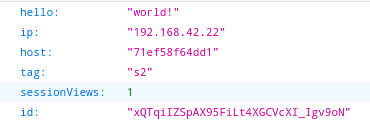
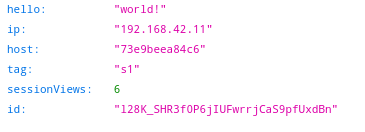
update task 3

diff --git a/Report.md b/Report.md
@@ -80,8 +80,6 @@ The correct behavior would be that the load balancer always sends the request **
 
    > Note: If the `ServerID` cookie isn't present in the request made, the proxy won't know where to send the request and return to a `Round Robin` behaviour (i.e. send the request to which ever server is available).
 
-   
-
    | First request               | Second request               |
    | --------------------------- | ---------------------------- |
    | ![](doc/task2_firstreq.png) | ![](doc/task2_secondreq.png) |
@@ -112,11 +110,11 @@ The correct behavior would be that the load balancer always sends the request **
 
    New Browser:
 
-   The first tests were made with firefox. if we do the same test with google chrome we can see that we are in the first case with the same exchange. 
+   Cookies are stored in the browser, so if we change browsers, it's like we're contacting the service for the first time.
 
-5. Provide a screenshot of JMeter's summary report. Is there a difference with this run and the run of Task 1?
+   **Provide a screenshot of JMeter's summary report. Is there a difference with this run and the run of Task 1?**
 
-   No because only one node has been choosen with the cookie. 
+   No there aren't any differences with the run we did in Task 1.
 
    ![](doc/task2_5a.png)
 
@@ -128,15 +126,21 @@ The correct behavior would be that the load balancer always sends the request **
 
    ![](doc/task2_7.png)
 
+   # TODO
+   
+   When the threads perform their very first request, the load balancer will redirect them to a server using the `Round Robin` algorithm. Then, all the 
+   
+   After their first requests, each thread will be "assigned" to a server and get the according cookies. Then all the following requests will be handled to the server that 
+   
    With the first thread the load balancer send it to S1 and the second thread with the round robin method goes on S2. After that, every thread has a cookie. 
 
 ## Task 3: Drain mode
 
-1. Take a screenshot of the Step 5 and tell us which node is answering.
+1. **Take a screenshot of the Step 5 and tell us which node is answering.**
 
    For screenshot see Step 5. S2 has answered to the request.
 
-2. Based on your previous answer, set the node in DRAIN mode. Take a screenshot of the HAProxy state page.
+2. **Based on your previous answer, set the node in DRAIN mode. Take a screenshot of the HAProxy state page.**
 
    ```
    # to enable HAProxy state page in frontend part 
@@ -149,65 +153,61 @@ The correct behavior would be that the load balancer always sends the request **
 
    ![](doc/task3_2.png)
 
-   Here on **/stats** we can see that s2 is in Drain mode. 
+   If we go on **/stats** we can see that s2 is in `Drain` mode. 
 
-   ![](doc/task3_drainproof.png)
+   ![](doc/task3_drainproof.png) 
 
-3. Refresh your browser and explain what is happening. Tell us if you stay on the same node or not. If yes, why? If no, why?
+3. **Refresh your browser and explain what is happening. Tell us if you stay on the same node or not. If yes, why? If no, why?**
 
-   We stay on the same node and it's totally normal. When we have active session on server during the changing state, the server did not close suddenly all session. It's like a bath, we did not put watter and we wait that all the remaining watter goes away. 
+   Since we didn't clear our cookies (on our browser), we stayed on the same node. Which is totally normal, when a server is in `Drain` mode, it will still accept old sessions but it won't accept any new sessions.
 
    ![](doc/task3_s2drain.png)
 
-4. Open another browser and open `http://192.168.42.42`. What is happening?
+4. **Open another browser and open `http://192.168.42.42`. What is happening?**
 
    ![](doc/task3_1.png)
 
-   We can open as much browser as you want, we will be redirect to S1 because in drain mode, the server did not accept new sessions anymore.
+   Since this is the "first" time we're contacting the server, we're redirected to S1. As stated above, a node that is in `Drain` mode won't accept any new sessions.
 
-5. Clear the cookies on the new browser and repeat these two steps multiple times. What is happening? Are you reaching the node in DRAIN mode?
+5. **Clear the cookies on the new browser and repeat these two steps multiple times. What is happening? Are you reaching the node in DRAIN mode?**
 
-   If we clear cookie in the browser where we have the connection with S2. We can not reach the server in drain mode.
+   If we clear the cookies in "our" browser (i.e. the one that still has a connection with S2), we won't be able to reach it anymore. And clearing the cookies on the second browser doesn't change anything, we still can't reach S2. 
 
-   ![](doc/task3_51.png)
+   | Our browser           | Browser 2             |
+   | --------------------- | --------------------- |
+   | ![](doc/task3_51.png) | ![](doc/task3_52.png) |
 
-   ![](doc/task3_52.png)
-
-6. Reset the node in READY mode. Repeat the three previous steps and explain what is happening. Provide a screenshot of HAProxy's stats page.
+6. **Reset the node in READY mode. Repeat the three previous steps and explain what is happening. Provide a screenshot of HAProxy's stats page.**
 
    ![](doc/task3_readyproof.png)
 
-   3.  Refresh your browser and explain what is happening. Tell us if you stay on the same node or not. If yes, why? If no, why?
+   Now that **S2** is in `READY` mode, it will again accept new sessions. Which means that the `Round robin` and `Sticky session` policy will be able to again redirect request to S2.
 
-      As the drain mode we stay on server 2 but this this time, it's the normal behavior. 
+   > If we refresh our browser, we will stay on S1 since it was the last node that handled our requests.
+   >
+   > ![](doc/task3_61.png)
+   >
+   > When accessing the server from a new browser, the load balancer will redirect us to the first available node. Here, we reached S2 (which is handy because it shows that it does accept  new requests)
+   >
+   > ![](doc/task3_62.png)
+   >
+   > By clearing our cookies and accessing the server again and again, we will simply go back and fort between the available node
+   >
+   > | First clear            | Second clear           |
+   > | ---------------------- | ---------------------- |
+   > | ![](doc/task3_63a.png) | ![](doc/task3_63b.png) |
 
-      ![](doc/task3_61.png)
-
-   4.  Open another browser and open `http://192.168.42.42`. What is happening?
-
-      We go on server 1 because we do not have a session on the other browser.  it's the normal behavior. 
-
-      ![](doc/task3_62.png)
-
-   5. Clear the cookies on the new browser and repeat these two steps multiple times.
-
-      And now we go on server 2. And if we repeat the process, we jump between S1 and S2
-
-      ![](doc/task3_63.png)
-
-7. Finally, set the node in MAINT mode. Redo the three same steps and explain what is happening. Provide a screenshot of HAProxy's stats page.
+7. **Finally, set the node in MAINT mode. Redo the three same steps and explain what is happening. Provide a screenshot of HAProxy's stats page.**
 
    ![](doc/task3_maintproof.png)
 
-   3.  Refresh your browser and explain what is happening. Tell us if you stay on the same node or not. If yes, why? If no, why?
+   Now that **S2** is in `MAINT` mode, we can try whatever we want, clearing our cookies using a different browser, we'll never be able to reach it because it's considered as "out of order".
 
-      If we have a session with S2, if we refresh we are redirect to S1 because S2 is considered as out of order. 
+   So as long as S2 is in `MAINT` mode, all the requests will be handled by S1.
 
-   4.  Open another browser and open `http://192.168.42.42`. What is happening?
-
-      Even if we try with another browser or if we clear the cookies, it's impossible to reach S2
-
-   
+   | Our browser           | Other browser         |
+   | --------------------- | --------------------- |
+   | ![](doc/task3_7a.png) | ![](doc/task3_7b.png) |
 
 ## Task 4: Round robin in degraded mode
 
